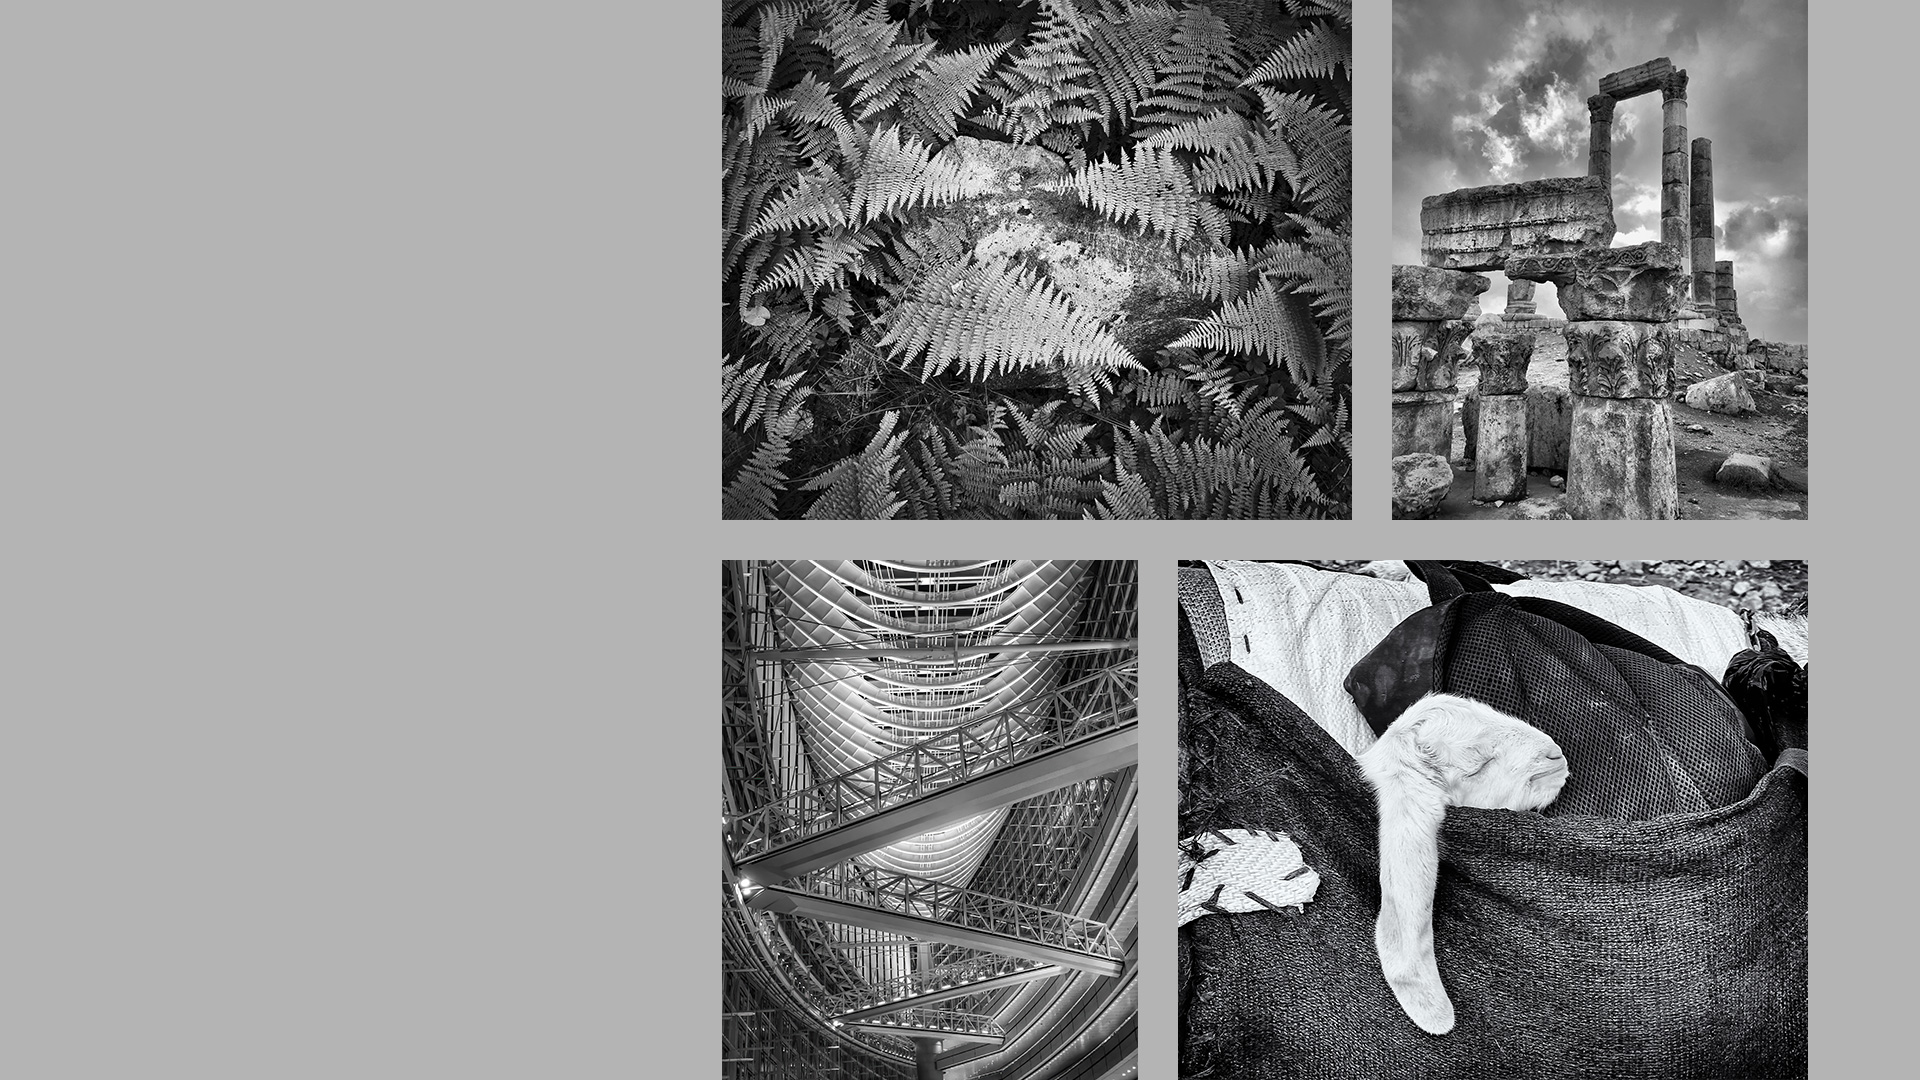
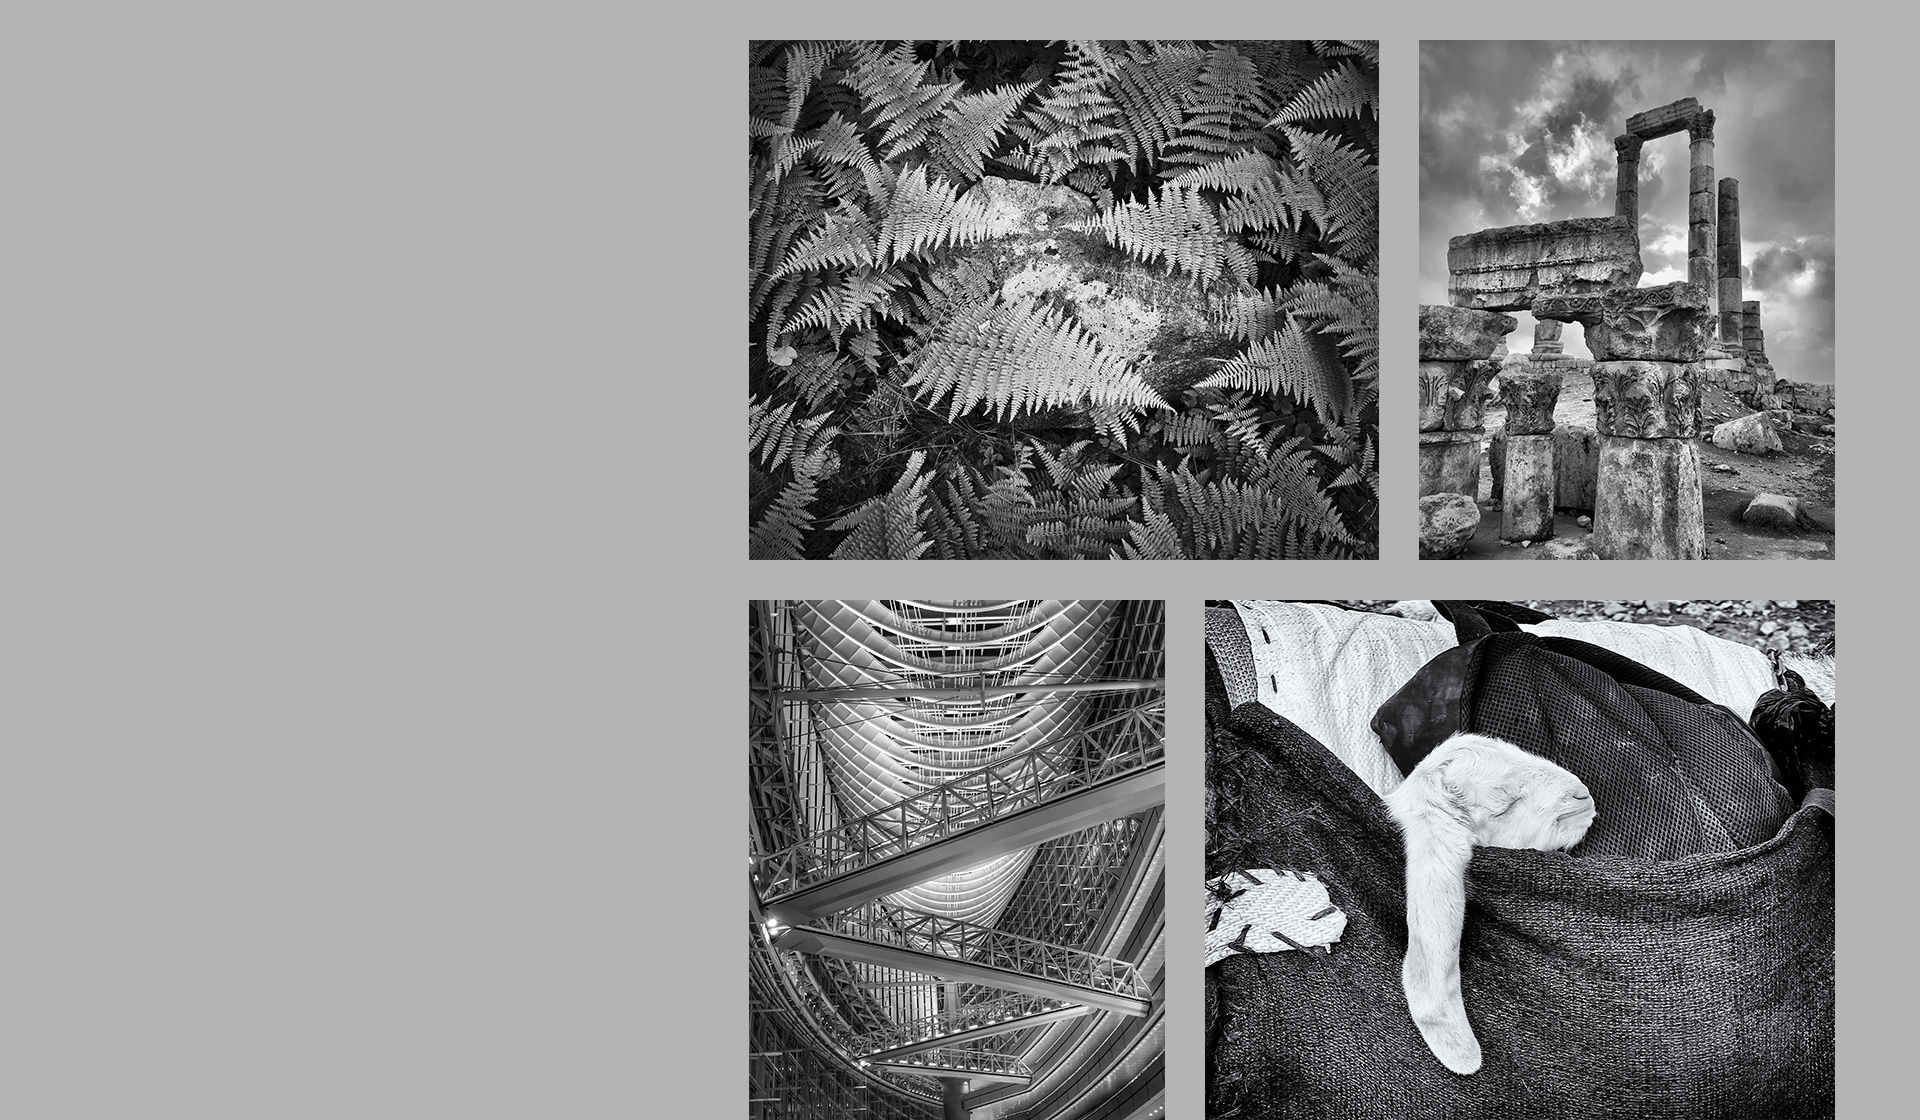
upload correct landing jpg, margin, font color

diff --git a/css/style.css b/css/style.css
@@ -1,6 +1,6 @@
 body {
    font-family: 'Lato', sans-serif;
-   margin-right: 40px;
+   margin-top: 40px;
    background-color: rgb(180,180,180);
    background-image: url("../img/landing.jpg");
    background-repeat: no-repeat;
@@ -9,12 +9,13 @@ body {
 footer {
    position: fixed; 
    bottom: 0;
+   padding: 0 0 5px 20px;
    width: 100%;
    height: 50px;
-   color: #ffffff;
+   color: #0000000;
    background: rgba(180,180,180,.4);
    line-height: 50px;
-   font-size: 5vw;
+   font-size: 2vw;
    font-weight: 300;
    font-variant: small-caps;
 }
